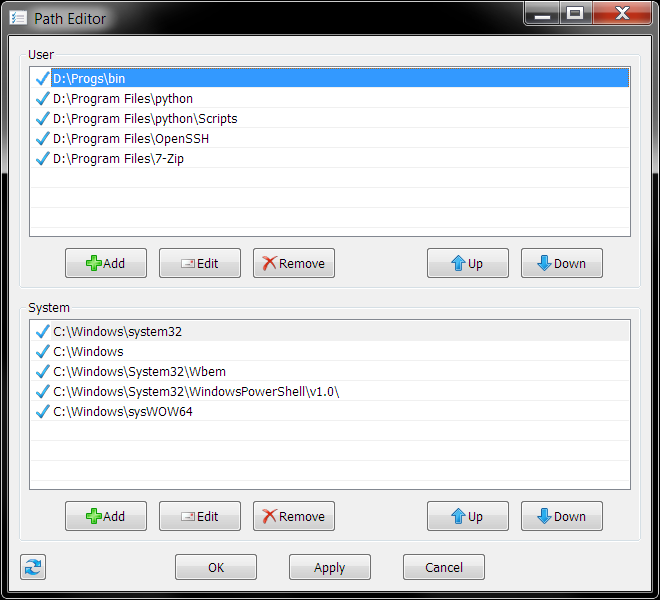
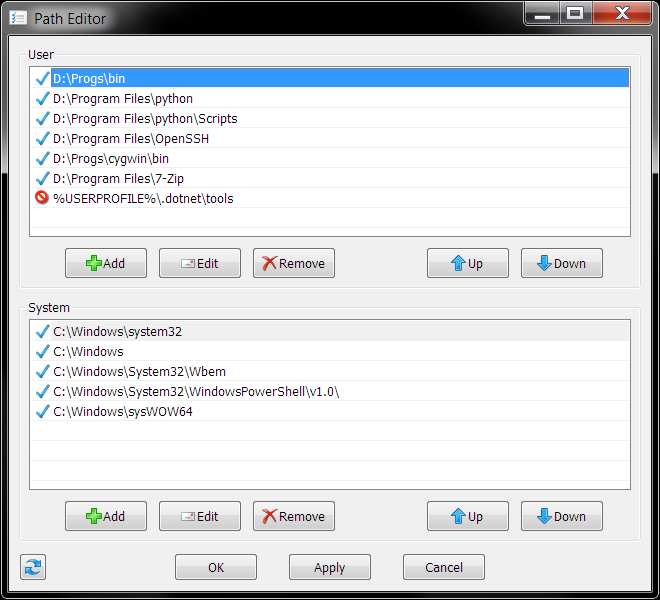
GCC support

Changed region(s): [[0.0303, 0.24, 0.3636, 0.36], [0.3939, 0.84, 0.4242, 0.87], [0.3939, 0.42, 0.4242, 0.45]]

diff --git a/src/PathEditorDlg.cpp b/src/PathEditorDlg.cpp
@@ -469,11 +469,13 @@ BOOL CPathEditorDlg::OnCommand( UINT uMsg, WPARAM wParam, LPARAM lParam)
         break;
     case ID_ACC_APPLY:
         m_accHit = TRUE;
+        /* fall through */
     case IDC_BUTTON_APPLY:
         if (_Commit()) _StatusMessage(L"Applied", SS_RIGHT);
         break;
     case ID_ACC_REFRESH:
         m_accHit = TRUE;
+        /* fall through */
     case IDC_BUTTON_REFRESH:
         if (_Reload()) _StatusMessage(L"Reloaded", SS_LEFT);
         break;

diff --git a/src/Util.h b/src/Util.h
@@ -26,7 +26,7 @@
 
 #include <windows.h>
 #include <utility>
-#include <shobjidl_core.h>
+#include <shobjidl.h>
 
 // Check if current process has admin access
 // pair.first  indicates elevated admin

diff --git a/src/Util.cpp b/src/Util.cpp
@@ -205,7 +205,7 @@ bool IsAbsoluteLocalPathValid( const std::wstring &Path)
 }
 
 #ifdef PICKFOLDER_FALLBACK
-#include <shlobj_core.h>
+#include <shlobj.h>
 
 #pragma comment(lib, "ComDlg32.Lib")
 

diff --git a/README.md b/README.md
@@ -38,9 +38,9 @@ The default environment editor is not great at editing PATH if there are lot of 
 ## Building from source
 ### CMake build
 Build tools required:  
- * Clang / MSVC C++ compiler (GCC is not supported)
- * Windows SDK
- * MSVC libs
+ * Clang | GCC/MinGW | MSVC C++ compiler
+ * Windows SDK (Clang, MSVC)
+ * MSVC libs   (Clang, MSVC)
  * CMake
  * Ninja
 
@@ -58,11 +58,11 @@ cmake --install will put the resulting executable into the mak\bin directory
 
 ### MS Build tools
 Build tools required:  
- * MS C++ Build Tools (or complete MS Visual Studio)
+ * MS C++ Build Tools | MS Visual Studio
  * Windows SDK
  * MSVC libs
 
-Open Native Tools Command Prompt in the mak directory and run
+Open Native Tools Command Prompt in the mak directory and run:  
 (assuming you have v143 toolset installed and building for Intel/AMD CPU)
 ```
 msbuild /p:Configuration=Release /p:Platform=x64 /p:PlatformToolset=v143 PathEditor.sln
